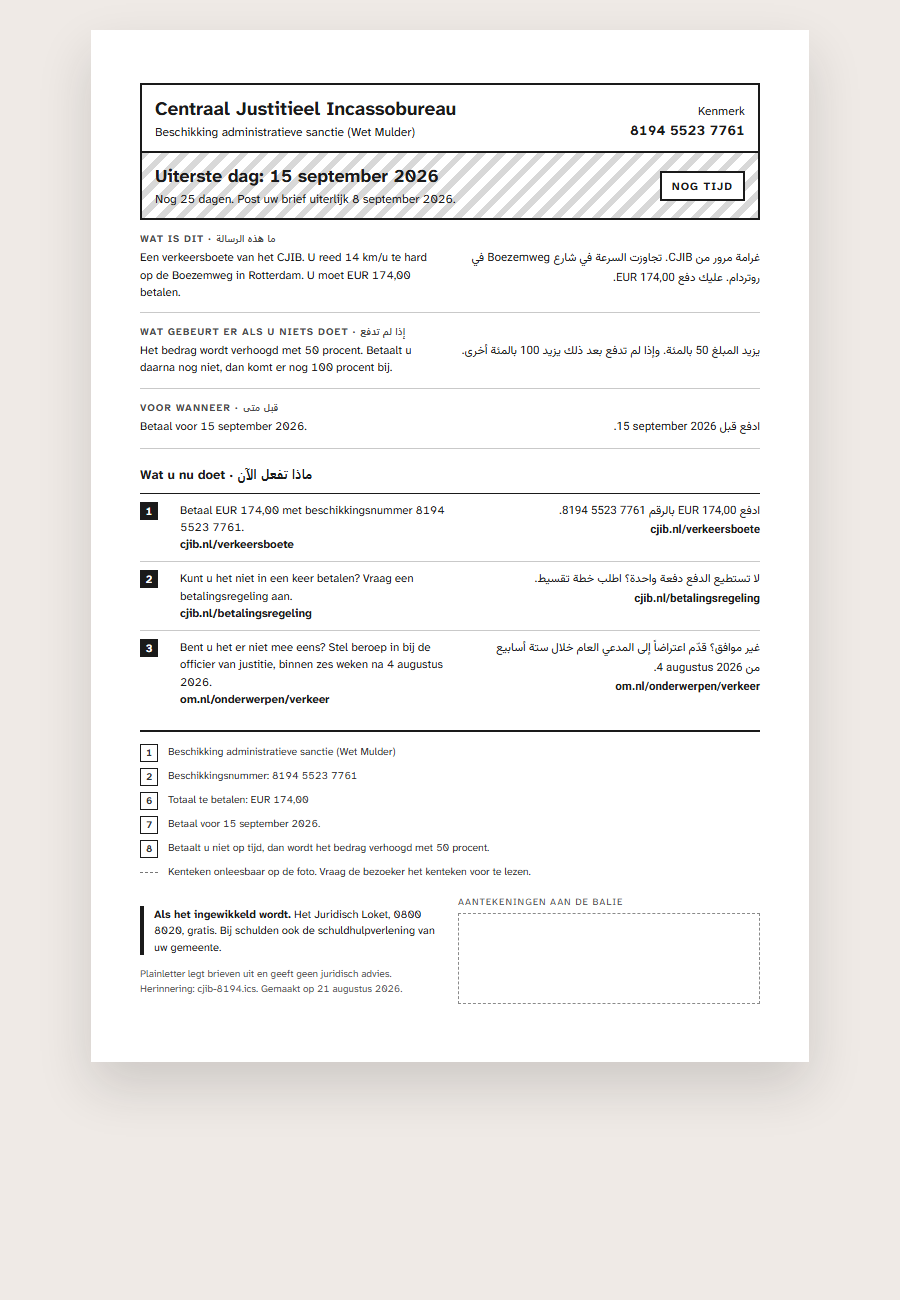
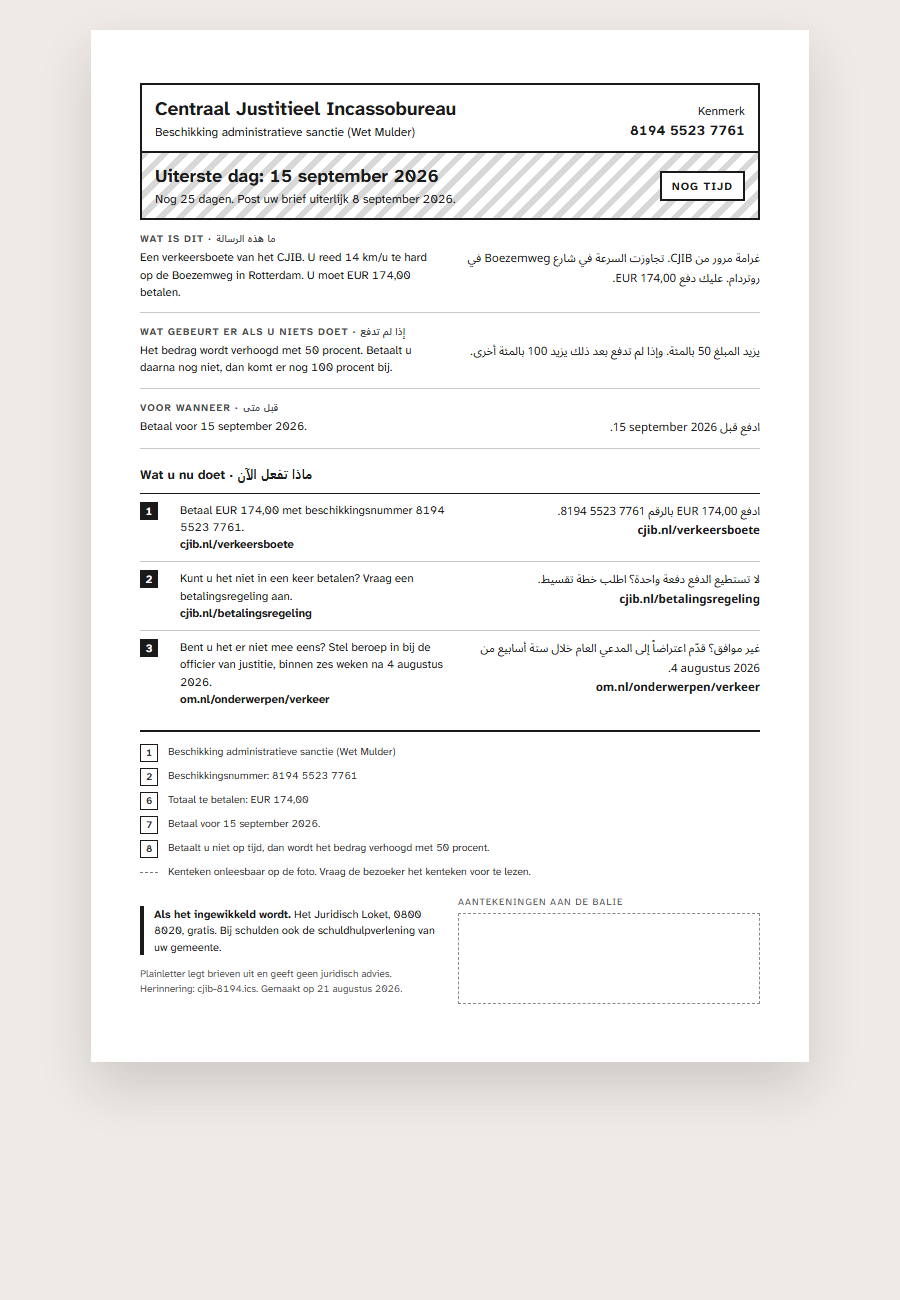
fix: give every script a face drawn for it, not one that covers it
The Arabic output was being set in Vazirmatn, whose own project calls it "a
Persian/Arabic font project" started under the name Vazir. Persian first.
It carries the Arabic alphabet, but Persian and Arabic readers do not
expect the same letter shapes, so an Arabic reader was being handed text
that reads subtly foreign. In a product whose whole promise is that a
frightened person reads their own language properly, that is not a
nitpick.

Arabic now uses Noto Sans Arabic. Farsi keeps Vazirmatn, where a
Persian-drawn face is exactly the right answer. Hebrew, Cyrillic and
Chinese keep their own Noto faces for the same reason.

Alongside it, a worse one. The web app loaded Atkinson Hyperlegible Next
with the latin subset only, and Polish and Turkish are two of the twelve
visitor languages. Their letters live in latin-ext, so the l with stroke
and the dotless i would have dropped out of the face mid-sentence and
landed on whatever the device had. Both subsets are loaded now.

Every family here was checked against the subsets Google actually serves
rather than the ones it is assumed to serve.

diff --git a/web/src/app/layout.tsx b/web/src/app/layout.tsx
@@ -1,5 +1,9 @@
 import type { Metadata } from 'next';
-import { Atkinson_Hyperlegible_Next, Bricolage_Grotesque } from 'next/font/google';
+import {
+  Atkinson_Hyperlegible_Next,
+  Bricolage_Grotesque,
+  Noto_Sans_Arabic,
+} from 'next/font/google';
 import '@/app/globals.css';
 import '@/env';
 
@@ -12,10 +16,23 @@ const bricolage = Bricolage_Grotesque({
   display: 'swap',
 });
 
+// latin-ext is not optional here. Polish and Turkish are two of the twelve visitor languages, and
+// their letters live in that subset: without it, the l with stroke and the dotless i fall out of
+// the face mid-sentence and land on whatever the device happens to have.
 const hyperlegible = Atkinson_Hyperlegible_Next({
-  subsets: ['latin'],
+  subsets: ['latin', 'latin-ext'],
   weight: ['400', '600', '700'],
   variable: '--font-hyperlegible',
+  display: 'swap',
+});
+
+// Arabic gets a face drawn for Arabic rather than one that merely covers it. Vazirmatn, which the
+// Farsi output uses, calls itself a Persian project first, and Persian prefers letter shapes an
+// Arabic reader would not choose. Every script here gets its own designed face for that reason.
+const arabic = Noto_Sans_Arabic({
+  subsets: ['arabic'],
+  weight: ['400', '600', '700'],
+  variable: '--font-arabic',
   display: 'swap',
 });
 
@@ -33,7 +50,10 @@ export const metadata: Metadata = {
 
 export default function RootLayout({ children }: { children: React.ReactNode }) {
   return (
-    <html lang="en" className={`${bricolage.variable} ${hyperlegible.variable}`}>
+    <html
+      lang="en"
+      className={`${bricolage.variable} ${hyperlegible.variable} ${arabic.variable}`}
+    >
       <body>{children}</body>
     </html>
   );

diff --git a/design/mockups/landing.html b/design/mockups/landing.html
@@ -6,7 +6,7 @@
 <meta name="viewport" content="width=device-width, initial-scale=1">
 <link rel="preconnect" href="https://fonts.googleapis.com">
 <link rel="preconnect" href="https://fonts.gstatic.com" crossorigin>
-<link href="https://fonts.googleapis.com/css2?family=Bricolage+Grotesque:opsz,wght@12..96,400..800&family=Atkinson+Hyperlegible+Next:wght@400;600;700&family=Vazirmatn:wght@400;600;700&display=swap" rel="stylesheet">
+<link href="https://fonts.googleapis.com/css2?family=Bricolage+Grotesque:opsz,wght@12..96,400..800&family=Atkinson+Hyperlegible+Next:wght@400;600;700&family=Noto+Sans+Arabic:wght@400;600;700&display=swap" rel="stylesheet">
 <style>
   :root {
     --desk: #EFEAE6; --paper: #FFFFFF; --ink: #221E1C; --ink2: #5C534E; --ink3: #847871;
@@ -20,7 +20,7 @@
   body { margin: 0; background: var(--desk); color: var(--ink);
          font-family: "Atkinson Hyperlegible Next", system-ui, sans-serif;
          font-size: 16px; line-height: 1.55; font-variant-numeric: tabular-nums; }
-  .ar { font-family: "Vazirmatn", "Atkinson Hyperlegible Next", sans-serif; line-height: 1.7; }
+  .ar { font-family: "Noto Sans Arabic", "Atkinson Hyperlegible Next", sans-serif; line-height: 1.7; }
   .bric { font-family: "Bricolage Grotesque", sans-serif; letter-spacing: -0.02em; }
   mark { background: var(--wash); color: inherit; border-radius: 999px; padding: 0.05em 0.36em;
          box-decoration-break: clone; -webkit-box-decoration-break: clone; }

diff --git a/design/mockups/card.html b/design/mockups/card.html
@@ -6,7 +6,7 @@
 <meta name="viewport" content="width=device-width, initial-scale=1">
 <link rel="preconnect" href="https://fonts.googleapis.com">
 <link rel="preconnect" href="https://fonts.gstatic.com" crossorigin>
-<link href="https://fonts.googleapis.com/css2?family=Atkinson+Hyperlegible+Next:wght@400;600;700&family=Vazirmatn:wght@400;600;700&display=swap" rel="stylesheet">
+<link href="https://fonts.googleapis.com/css2?family=Atkinson+Hyperlegible+Next:wght@400;600;700&family=Noto+Sans+Arabic:wght@400;600;700&display=swap" rel="stylesheet">
 <style>
   /* The card is printed on a monochrome library printer, so nothing here carries meaning in
      colour. Urgency is a word plus a treatment, and the hatch is what survives greyscale. */
@@ -15,7 +15,7 @@
   body { margin: 0; background: #EFEAE6; padding: 30px;
          font-family: "Atkinson Hyperlegible Next", system-ui, sans-serif;
          font-variant-numeric: tabular-nums; color: #1a1a1a; }
-  .ar { font-family: "Vazirmatn", "Atkinson Hyperlegible Next", sans-serif; line-height: 1.7; }
+  .ar { font-family: "Noto Sans Arabic", "Atkinson Hyperlegible Next", sans-serif; line-height: 1.7; }
   .sheet { width: 190mm; min-height: 273mm; margin: 0 auto; background: #fff; padding: 14mm 13mm;
            box-shadow: 0 24px 50px rgba(34, 30, 28, 0.16); font-size: 11.5px; line-height: 1.5; }
 

diff --git a/design/mockups/console.html b/design/mockups/console.html
@@ -6,7 +6,7 @@
 <meta name="viewport" content="width=device-width, initial-scale=1">
 <link rel="preconnect" href="https://fonts.googleapis.com">
 <link rel="preconnect" href="https://fonts.gstatic.com" crossorigin>
-<link href="https://fonts.googleapis.com/css2?family=Bricolage+Grotesque:opsz,wght@12..96,400..800&family=Atkinson+Hyperlegible+Next:wght@400;600;700&family=Vazirmatn:wght@400;600;700&display=swap" rel="stylesheet">
+<link href="https://fonts.googleapis.com/css2?family=Bricolage+Grotesque:opsz,wght@12..96,400..800&family=Atkinson+Hyperlegible+Next:wght@400;600;700&family=Noto+Sans+Arabic:wght@400;600;700&display=swap" rel="stylesheet">
 <style>
   :root {
     --desk: #EFEAE6;
@@ -36,7 +36,7 @@
     font-family: "Atkinson Hyperlegible Next", system-ui, sans-serif;
     font-size: 16px; line-height: 1.55; font-variant-numeric: tabular-nums;
   }
-  .ar { font-family: "Vazirmatn", "Atkinson Hyperlegible Next", sans-serif; line-height: 1.7; }
+  .ar { font-family: "Noto Sans Arabic", "Atkinson Hyperlegible Next", sans-serif; line-height: 1.7; }
   .shell { max-width: 1300px; margin: 0 auto; padding: 0 28px 44px; }
 
   .util { display: flex; align-items: center; gap: 24px; padding: 16px 0 14px;

diff --git a/web/src/app/globals.css b/web/src/app/globals.css
@@ -18,6 +18,13 @@
 
   --font-brand: var(--font-bricolage), sans-serif;
   --font-reading: var(--font-hyperlegible), sans-serif;
+  --font-arabic: var(--font-arabic), sans-serif;
+}
+
+/* Each script gets a face drawn for it, never one that merely covers it: an Arabic reader should
+   not be handed Persian letter shapes by a family that happens to include the alphabet. */
+:lang(ar) {
+  font-family: var(--font-arabic);
 }
 
 @layer theme {

diff --git a/design/ART-DIRECTION.md b/design/ART-DIRECTION.md
@@ -92,12 +92,25 @@ Figtree, JetBrains Mono or Overpass, all of which are spent on sibling products.
 | --- | --- | --- |
 | Working surface: body, findings, controls, the printed card | **Atkinson Hyperlegible Next** (OFL), `wght 200..800` | Drawn by the Braille Institute so that letterforms which normally collapse into each other stay distinct: `I` against `l` against `1`, `O` against `0`. The reader here may have low vision, may be reading a second alphabet, and is looking at a reference number they must copy exactly. No other free face is designed for that job |
 | Brand layer only: the wordmark, the one big sentence, landing headlines | **Bricolage Grotesque** (OFL), `opsz 12..96`, `wdth 75..100`, `wght 200..800` | One warm, contemporary voice so the page is not faceless. It is drawn in 2023 and reads as made this year, which is the point after a direction that read as a museum |
-| Arabic and Farsi | **Vazirmatn** (OFL) | A modern Arabic face with a real weight range, not a Latin fallback |
+| Arabic | **Noto Sans Arabic** (OFL) | Drawn for Arabic. See the rule under this table |
+| Farsi | **Vazirmatn** (OFL) | Its own project calls it "a Persian/Arabic font project", Persian first, which is exactly right here and exactly wrong for Arabic |
 | Hebrew | **Noto Sans Hebrew** | |
 | Cyrillic, Chinese | **Noto Sans**, **Noto Sans SC** | |
 
-Both Latin families were confirmed resolving from the Google Fonts `css2` endpoint on 2026-08-21
-before being written here.
+**Every script gets a face designed for that script, never one that merely covers it.** Persian and
+Arabic share an alphabet but not the letter shapes their readers expect, so a Persian-first family
+set in Arabic reads subtly foreign to the one person in the room who most needs it to read right.
+The same rule forbids solving Hebrew or Cyrillic with a Latin family that happens to include the
+glyphs.
+
+The Latin face must be loaded with **`latin-ext` as well as `latin`**. Polish and Turkish are two of
+the twelve visitor languages and their letters live in the extended subset. Loading `latin` alone
+drops the l with stroke and the dotless i out of the face mid-sentence, which is the same class of
+failure as a mistranslated amount: the visitor sees something that is not their language.
+
+Every family named here was confirmed resolving from the Google Fonts `css2` endpoint on
+2026-08-21, and each was checked for the subset it actually serves rather than the one it is
+assumed to serve.
 
 **The brand layer never touches the working surface.** Bricolage appears on the wordmark, on the one
 plain sentence that opens a reading, and on landing headlines. It never appears on a control, in a
